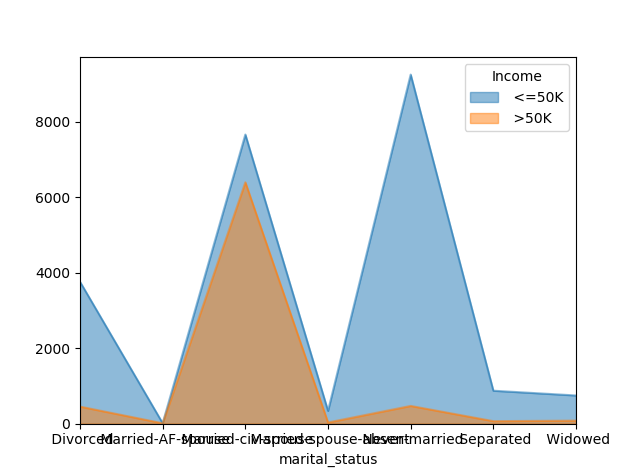
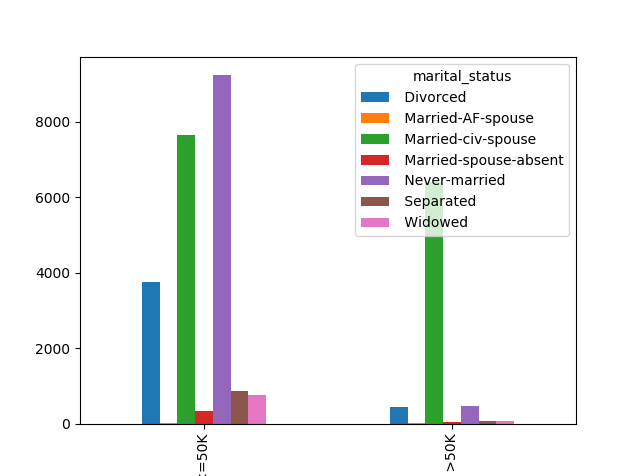
2021/03/08

Changed region(s): [[0.0625, 0.1471, 0.9688, 1.0]]

diff --git a/apps/register/HowFactorImpact.py b/apps/register/HowFactorImpact.py
@@ -20,8 +20,8 @@ class FactorAnalysisFunction:
  #statistics = df[["age", "Income"]].describe()
 # print(statistics)
 
- count = pd.crosstab(df.capital_gain, df.Income)
- print(count)
+ count = pd.crosstab(df.marital_status, df.Income)
+ #print(df.Income.count)
 #---------------------sex--------------------
 #count.T.plot(kind='bar')
 #---------------------Age--------------------
@@ -33,22 +33,24 @@ class FactorAnalysisFunction:
 #---------------------education_num-------
 #count.T.plot(kind='area', stacked=False)
 #--------------------marital_status-------
-#count.T.plot(kind='area', stacked=False)
+ count.T.plot(kind='bar', stacked=False)
 #--------------------occuption------------
  #count.T.plot(kind='bar')
 # --------------------occuption------------
 #count.T.plot(kind='bar')
 #relationship
 
- #count.T.plot(kind='pie', subplots=True, figsize=(8, 4))
+ #count.T.plot(kind='area', subplots=True, figsize=(8, 4))
+
+
  #df.plot(kind='scatter', x=df.hours_per_week, y=df.Income)
 
  #count.T.plot(kind='box',  sym='r+')
  fig1 = plt.gcf()
 
- df.plot(kind='scatter',x='capital_gain', y='capital_loss')
+ #df.plot(kind='area',x=df.capital_gain, y=df.Income)
  plt.show()
- #plt.draw()
+ plt.draw()
 #apps/register/templates/register/AdultDataset
- #fig1.savefig('templates/register/AdultDataset/'+ 'relationship_income' + '.png')  # Use fig. here
+ fig1.savefig('templates/'+ 'maritalStatus_income' + '.png')  # Use fig. here
 
